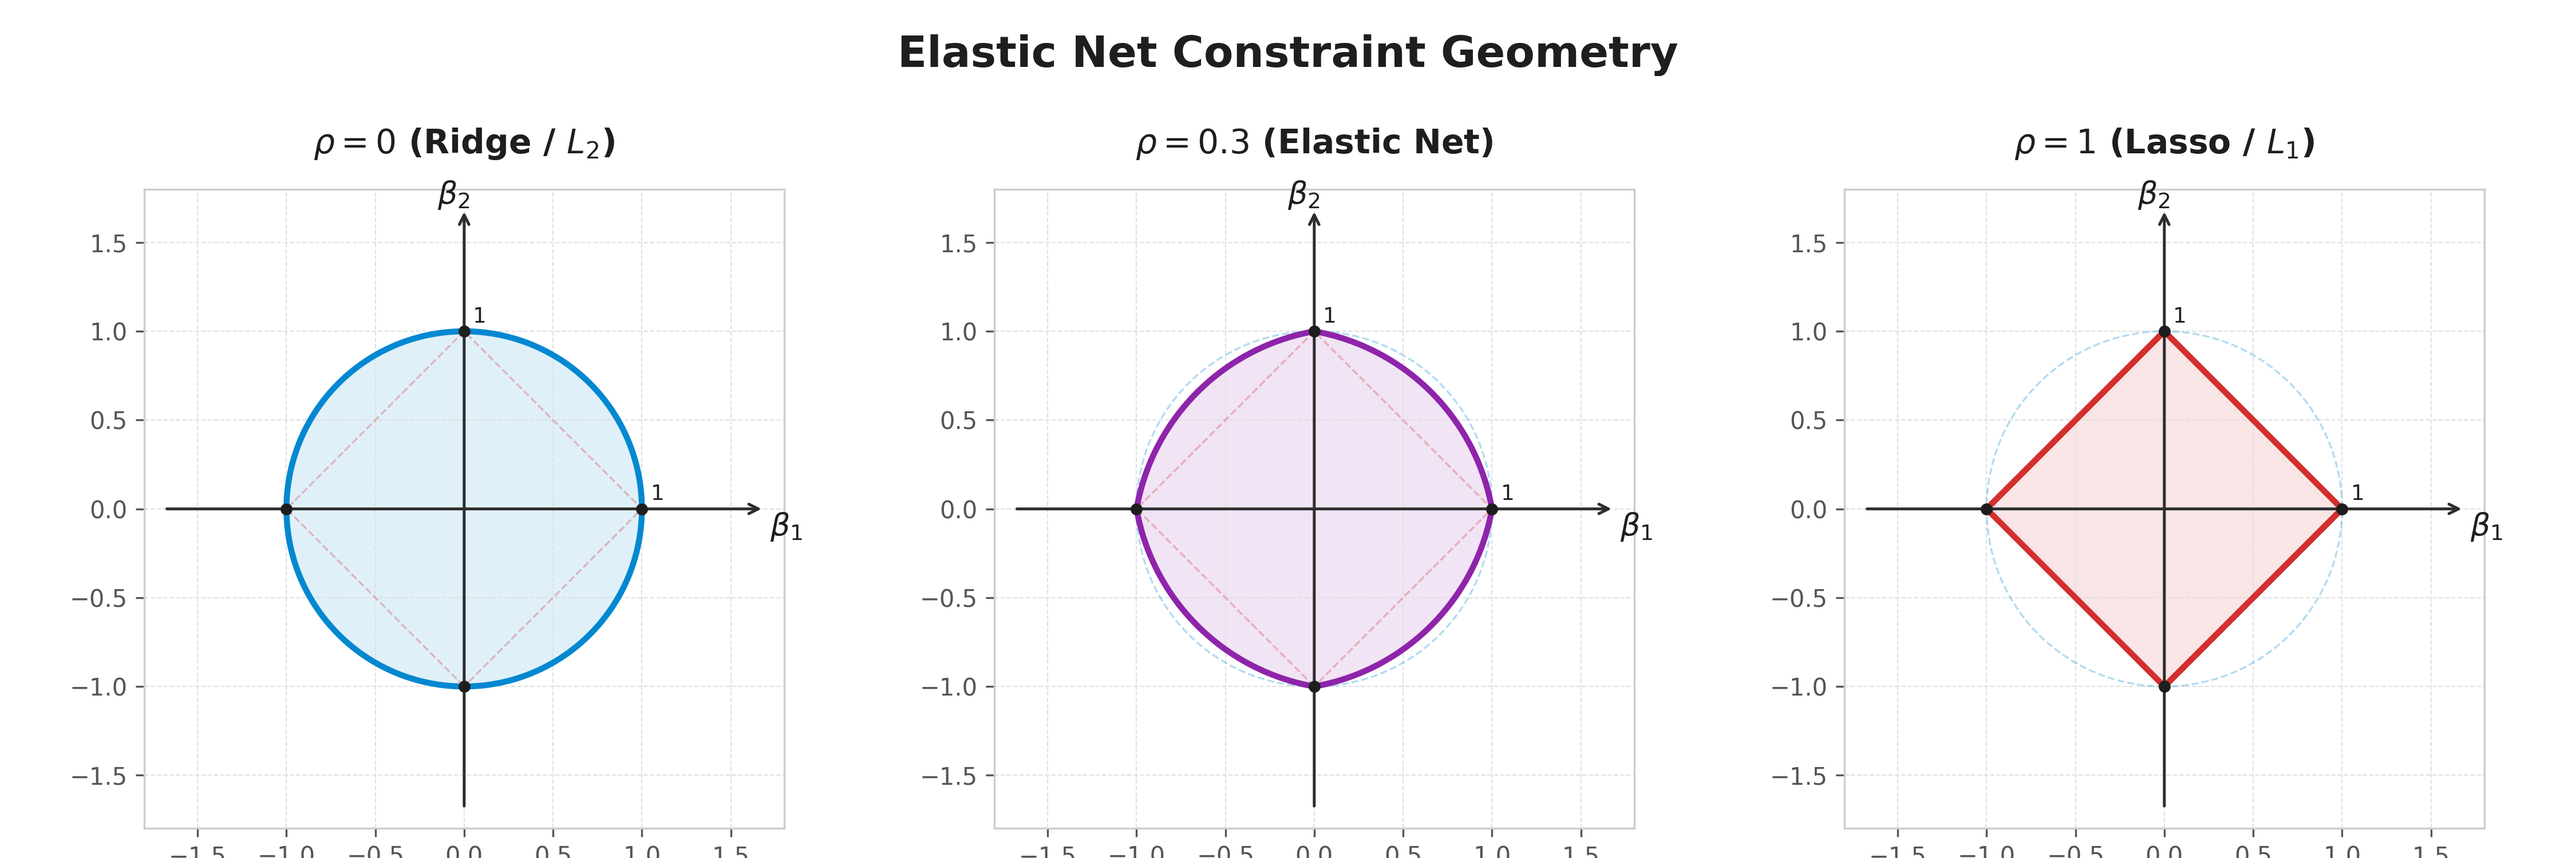
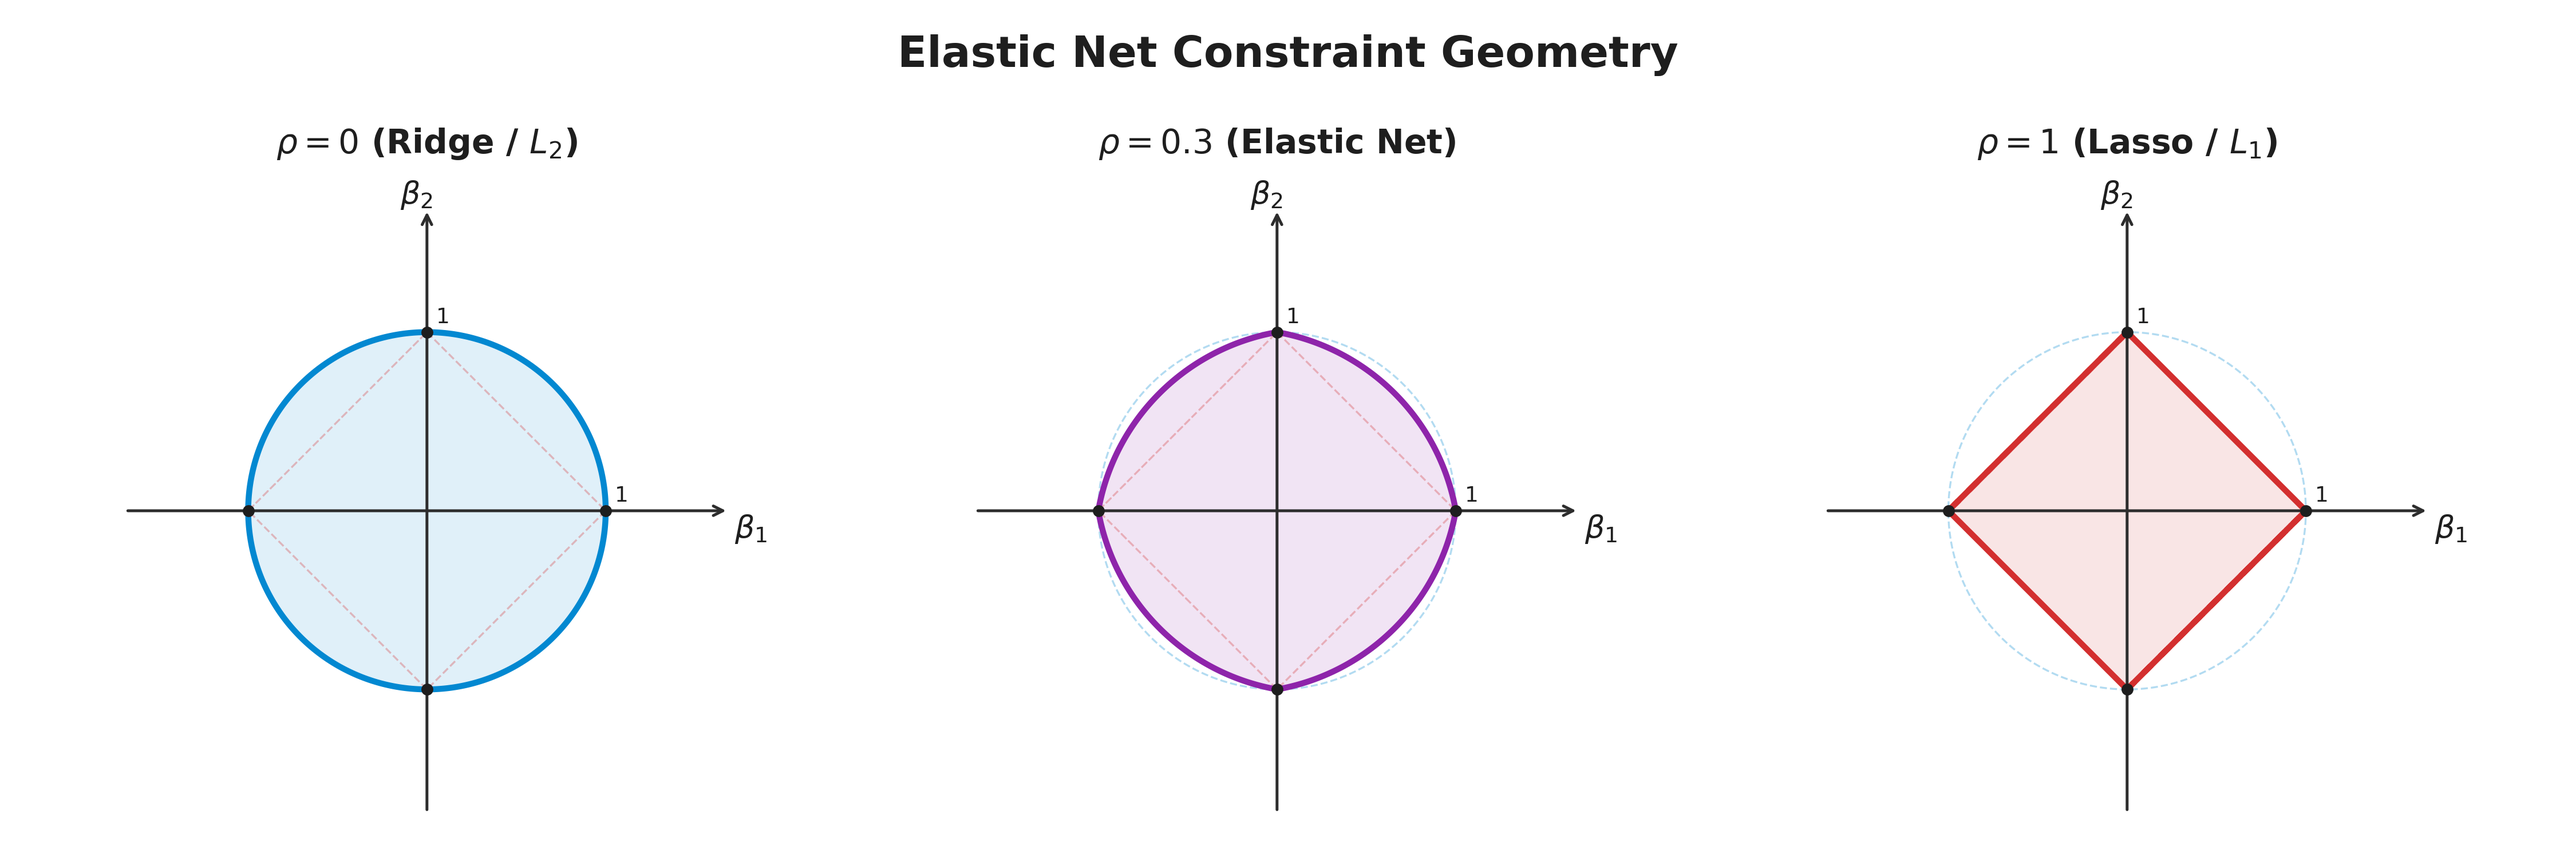
Hide outer spines and ticks in geometry plot to avoid border clipping

diff --git a/_MachineLearningProjects/04_Elastic_Net/Results/generate_plots.py b/_MachineLearningProjects/04_Elastic_Net/Results/generate_plots.py
@@ -68,9 +68,11 @@ def draw_geometry_plots():
         ax.text(1.05, 0.05, '1', color='#1e1e1e', fontsize=9)
         ax.text(0.05, 1.05, '1', color='#1e1e1e', fontsize=9)
         
-        # Adjust spines
+        # Hide default outer spines and tick marks to prevent central axes intersecting borders
+        ax.set_xticks([])
+        ax.set_yticks([])
         for spine in ax.spines.values():
-            spine.set_color('#cccccc')
+            spine.set_visible(False)
             
     plt.suptitle("Elastic Net Constraint Geometry", fontsize=18, color='#1e1e1e', weight='bold', y=0.96)
     plt.tight_layout(rect=[0, 0, 1, 0.92])
